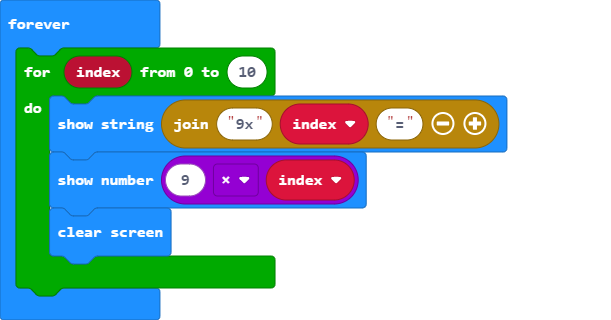
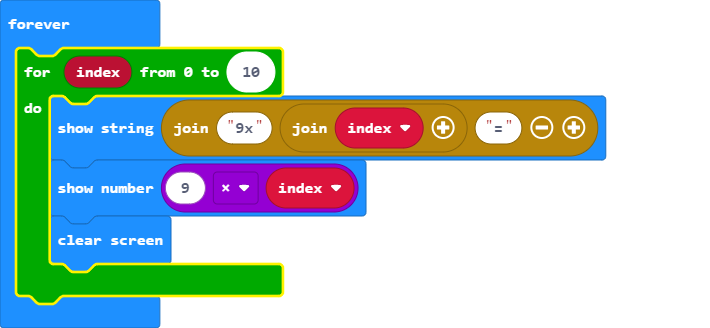
Update pxt.json, main.blocks, main.ts, main.py

Changed region(s): [[0.0, 0.0, 0.8707, 1.0], [0.0, 0.0625, 0.1244, 0.0938]]

diff --git a/main.ts b/main.ts
@@ -1,6 +1,6 @@
 basic.forever(function () {
     for (let index = 0; index <= 10; index++) {
-        basic.showString("9x" + index + "=")
+        basic.showString("9x" + ("" + index) + "=")
         basic.showNumber(9 * index)
         basic.clearScreen()
     }

diff --git a/main.py b/main.py
@@ -1,0 +1,6 @@
+def on_forever():
+    for index in range(11):
+        basic.show_string("9x" + str(index) + "=")
+        basic.show_number(9 * index)
+        basic.clear_screen()
+basic.forever(on_forever)
